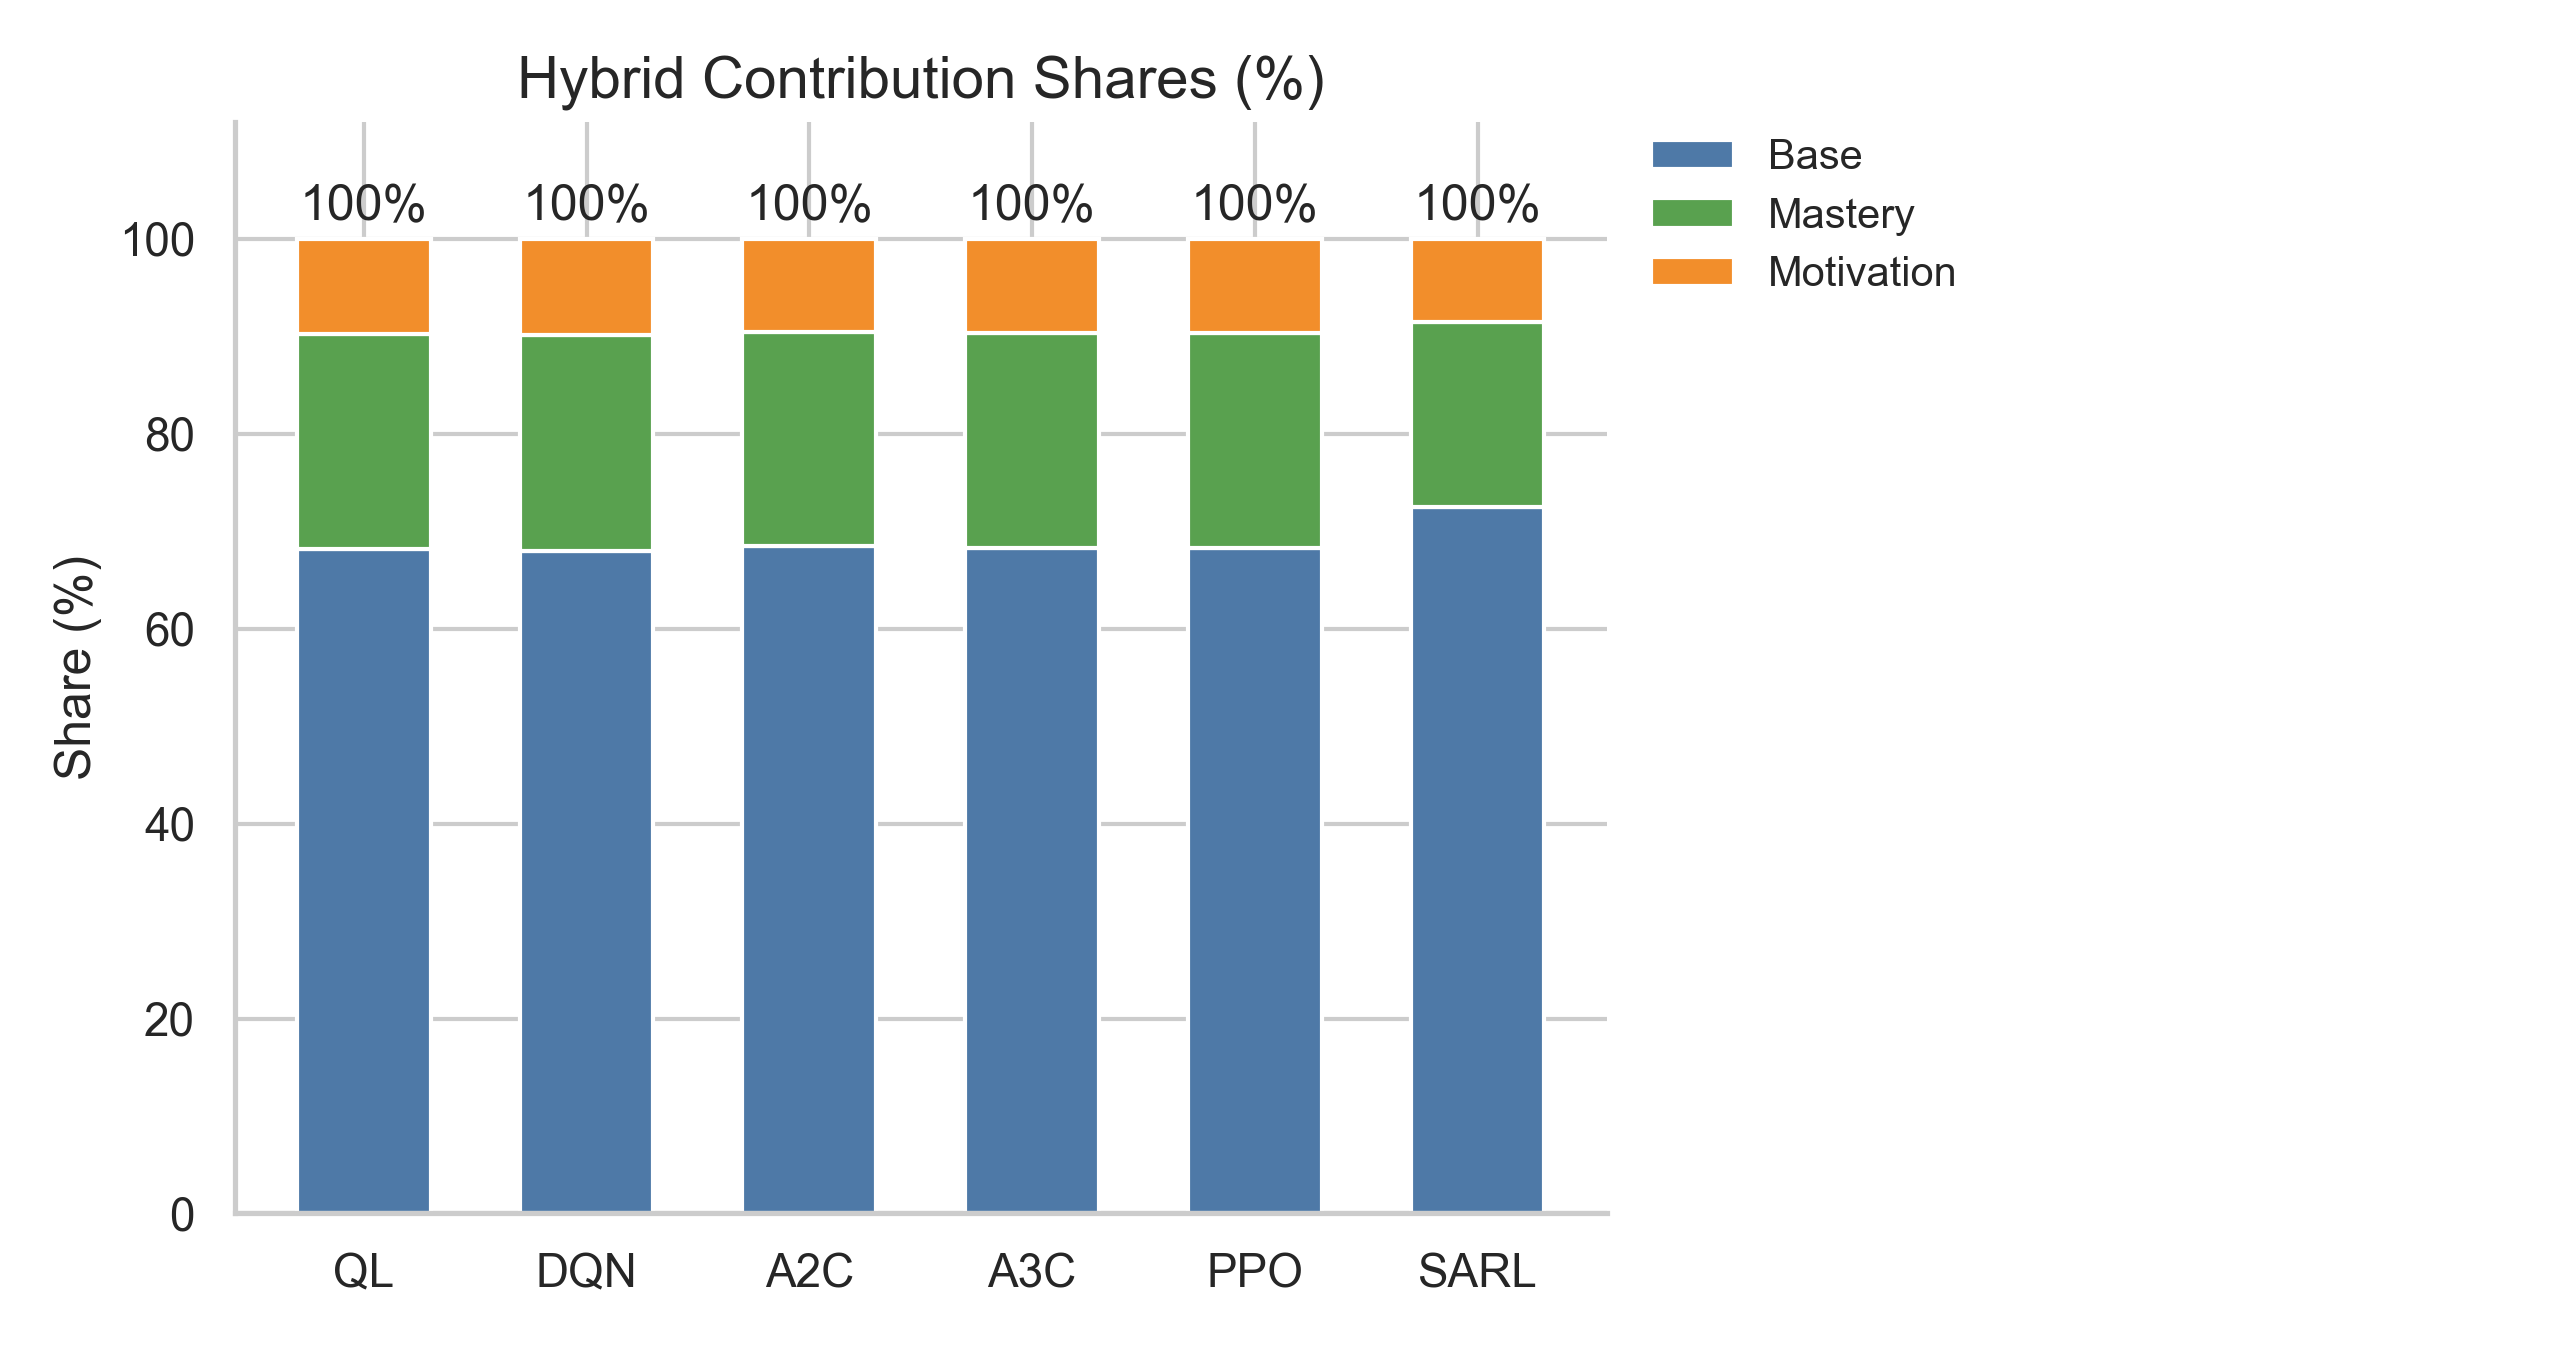
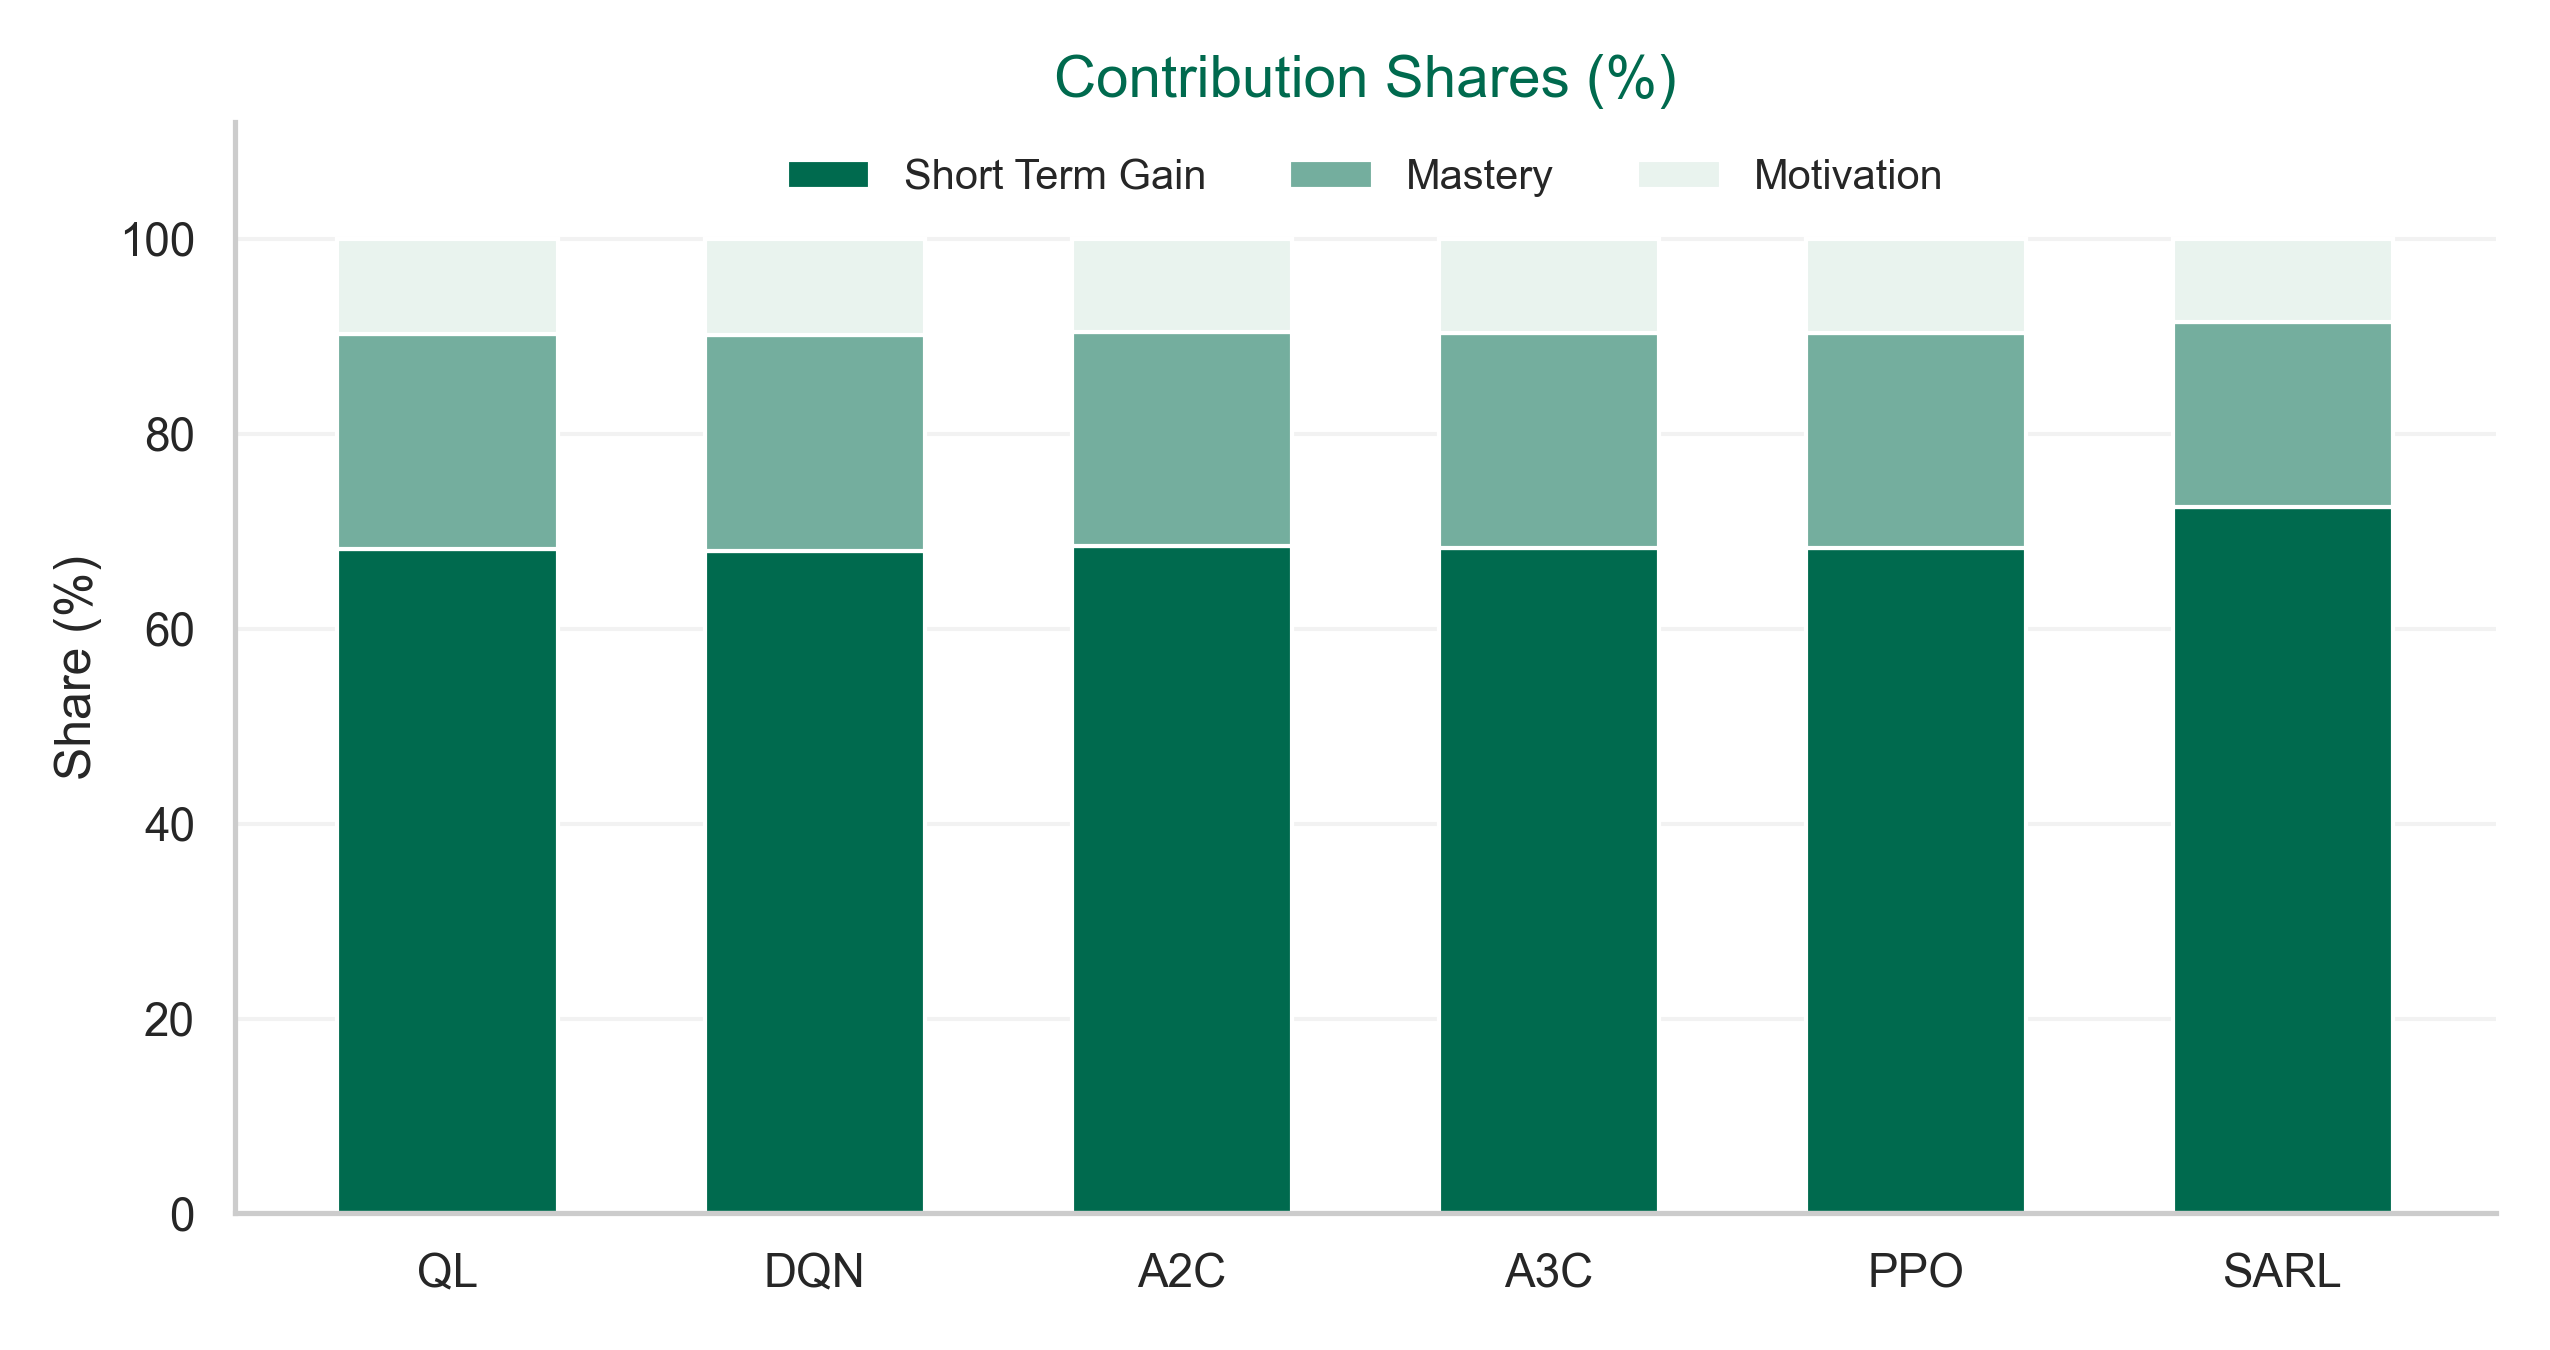
Added poster image color changes

diff --git a/curriculum_sequencing_rl/plot_poster.py b/curriculum_sequencing_rl/plot_poster.py
@@ -39,6 +39,20 @@ plt.rcParams.update({
     "ytick.labelsize": 11,
 })
 
+# Default theme color (green). Can be overridden via --theme_hex
+DEFAULT_THEME_HEX = "#006A4E"
+THEME_HEX = DEFAULT_THEME_HEX
+
+def _safe_theme(hex_str: str) -> str:
+    try:
+        s = str(hex_str).strip()
+        if s.startswith("#") and len(s) == 7:
+            int(s[1:], 16)
+            return s
+    except Exception:
+        pass
+    return DEFAULT_THEME_HEX
+
 MODEL_ORDER = ["QL", "DQN", "A2C", "A3C", "PPO", "SARL"]
 MODEL_COLORS: Dict[str, str] = {
     "QL": "#4c78a8",
@@ -116,23 +130,21 @@ def _select_per_model(df: pd.DataFrame, models: List[str], strategy: str = "late
 
 def _compute_derived_fields(df: pd.DataFrame) -> pd.DataFrame:
     df = df.copy()
-    # Percent fields if absent
-    if "vpr" in df.columns and "vpr_pct" not in df.columns:
+    # Percent fields — always recompute from raw to prevent stale CSV values
+    if "vpr" in df.columns:
         df["vpr_pct"] = df["vpr"].astype(float) * 100.0
-    if "regret_ratio" in df.columns and "regret_ratio_pct" not in df.columns:
+    if "regret_ratio" in df.columns:
         df["regret_ratio_pct"] = df["regret_ratio"].astype(float) * 100.0
-    if "reward_norm" in df.columns and "reward_norm_pct" not in df.columns:
+    if "reward_norm" in df.columns:
         df["reward_norm_pct"] = df["reward_norm"].astype(float) * 100.0
-    if "reward_base" in df.columns and "reward_base_pct" not in df.columns:
+    if "reward_base" in df.columns:
         df["reward_base_pct"] = df["reward_base"].astype(float) * 100.0
 
-    # Hybrid share pct, compute if missing and parts exist
+    # Hybrid share pct — recompute when parts exist
     has_parts = all(c in df.columns for c in [
         "reward_base_contrib", "reward_mastery", "reward_motivation"
     ])
-    if has_parts and not all(c in df.columns for c in [
-        "hybrid_base_share_pct", "hybrid_mastery_share_pct", "hybrid_motivation_share_pct"
-    ]):
+    if has_parts:
         total = (
             df["reward_base_contrib"].astype(float)
             + df["reward_mastery"].astype(float)
@@ -178,13 +190,10 @@ def plot_reward_bar(df: pd.DataFrame, outdir: Path) -> None:
         data=df,
         x="model",
         y="reward",
-        hue="model",
-        dodge=False,
-        legend=False,
-        palette=[MODEL_COLORS.get(m, "#999999") for m in df["model"].astype(str)],
+        color=THEME_HEX,
         ax=ax,
     )
-    ax.set_title("Average Shaped Reward (Test)")
+    ax.set_title("Average Shaped Reward (Test)", color=THEME_HEX)
     ax.set_xlabel("")
     ax.set_ylabel("Avg reward")
     ax.margins(y=0.15)
@@ -206,13 +215,10 @@ def plot_vpr_bar(df: pd.DataFrame, outdir: Path) -> None:
         data=df,
         x="model",
         y=col,
-        hue="model",
-        dodge=False,
-        legend=False,
-        palette=[MODEL_COLORS.get(m, "#999999") for m in df["model"].astype(str)],
+        color=THEME_HEX,
         ax=ax,
     )
-    ax.set_title("Valid Pick Rate (VPR)")
+    ax.set_title("Valid Pick Rate (VPR)", color=THEME_HEX)
     ax.set_xlabel("")
     ax.set_ylabel("VPR (%)" if col.endswith("pct") else "VPR")
     fmt = "{:.1f}%" if col.endswith("pct") else "{:.3f}"
@@ -234,13 +240,10 @@ def plot_regret_ratio_bar(df: pd.DataFrame, outdir: Path) -> None:
         data=df,
         x="model",
         y=col,
-        hue="model",
-        dodge=False,
-        legend=False,
-        palette=[MODEL_COLORS.get(m, "#999999") for m in df["model"].astype(str)],
+        color=THEME_HEX,
         ax=ax,
     )
-    ax.set_title("Instantaneous Regret Ratio (Lower is better)")
+    ax.set_title("Regret Ratio", color=THEME_HEX)
     ax.set_xlabel("")
     ax.set_ylabel("Regret ratio (%)" if col.endswith("pct") else "Regret ratio")
     # Two-decimal formatting for both annotations and y-axis ticks
@@ -267,38 +270,39 @@ def plot_hybrid_shares(df: pd.DataFrame, outdir: Path) -> None:
 
     x = np.arange(len(labels))
     width = 0.6
-    p1 = ax.bar(x, base, width, label="Base", color="#4e79a7")
-    p2 = ax.bar(x, mast, width, bottom=base, label="Mastery", color="#59a14f")
-    p3 = ax.bar(x, motiv, width, bottom=base+mast, label="Motivation", color="#f28e2b")
+    # Use monotone theme palette for stacked bars
+    stack_pal = sns.light_palette(THEME_HEX, n_colors=3, reverse=False)
+    p1 = ax.bar(x, base, width, label="Short Term Gain", color=stack_pal[2])
+    p2 = ax.bar(x, mast, width, bottom=base, label="Mastery", color=stack_pal[1])
+    p3 = ax.bar(x, motiv, width, bottom=base+mast, label="Motivation", color=stack_pal[0])
 
-    ax.set_title("Hybrid Contribution Shares (%)")
+    ax.set_title("Contribution Shares (%)", color=THEME_HEX)
     ax.set_xticks(x)
     ax.set_xticklabels(labels)
     ax.set_ylabel("Share (%)")
     ax.margins(y=0.12)
     ax.legend(
-        ncol=1,
-        loc="upper left",
-        bbox_to_anchor=(1.02, 1.0),
-        borderaxespad=0.0,
+        ncol=3,
+        loc="upper center",
+        bbox_to_anchor=(0.5, 1.0),
         frameon=False,
     )
+    # Keep only horizontal gridlines (remove vertical lines)
+    try:
+        ax.set_axisbelow(True)
+        # Robustly disable vertical gridlines across Matplotlib versions
+        ax.grid(False, axis="x")
+        ax.xaxis.grid(False)
+        # Keep a subtle horizontal grid
+        ax.grid(True, axis="y", alpha=0.25)
+        ax.yaxis.grid(True)
+    except Exception:
+        pass
 
-    # Annotate totals to 100%
-    for i in range(len(labels)):
-        total = base[i] + mast[i] + motiv[i]
-        ax.annotate(
-            f"{total:.0f}%",
-            (x[i], total),
-            ha="center",
-            va="bottom",
-            xytext=(0, 2),
-            textcoords="offset points",
-            clip_on=False,
-        )
+    # Removed total=100% annotations per request
 
     sns.despine()
-    fig.tight_layout(rect=[0, 0, 0.8, 1])
+    fig.tight_layout()
     fig.savefig(outdir / "poster_hybrid_shares_stacked.png", dpi=300)
     plt.close(fig)
 
@@ -312,8 +316,9 @@ def plot_shaping_terms(df: pd.DataFrame, outdir: Path) -> None:
     # Melt for grouped bar plot
     dd = df.melt(id_vars=["model"], value_vars=avail, var_name="term", value_name="avg_value")
     fig, ax = plt.subplots(figsize=(10, 4.8))
-    sns.barplot(data=dd, x="model", y="avg_value", hue="term", ax=ax)
-    ax.set_title("Shaping Components (average per step)")
+    term_pal = sns.light_palette(THEME_HEX, n_colors=len(avail), reverse=False)
+    sns.barplot(data=dd, x="model", y="avg_value", hue="term", palette=term_pal, ax=ax)
+    ax.set_title("Shaping Components (average per step)", color=THEME_HEX)
     ax.set_xlabel("")
     ax.set_ylabel("Avg component value")
     ax.margins(y=0.12)
@@ -358,6 +363,8 @@ def parse_args() -> argparse.Namespace:
                    help="Comma-separated models to include.")
     p.add_argument("--select", type=str, default="latest", choices=["latest", "max_reward", "min_regret"],
                    help="How to select one row per model when multiple exist.")
+    p.add_argument("--theme_hex", type=str, default=DEFAULT_THEME_HEX,
+                   help="Base hex color for plots, e.g., #006A4E")
     return p.parse_args()
 
 
@@ -368,6 +375,10 @@ def main() -> None:
 
     csv_paths = [Path(s) for s in args.csvs]
     models = [m.strip().upper() for m in args.models.split(",") if m.strip()]
+
+    # Set theme color globally
+    global THEME_HEX
+    THEME_HEX = _safe_theme(getattr(args, "theme_hex", DEFAULT_THEME_HEX))
 
     df_all = _read_csvs(csv_paths)
     df_all = _compute_derived_fields(df_all)
